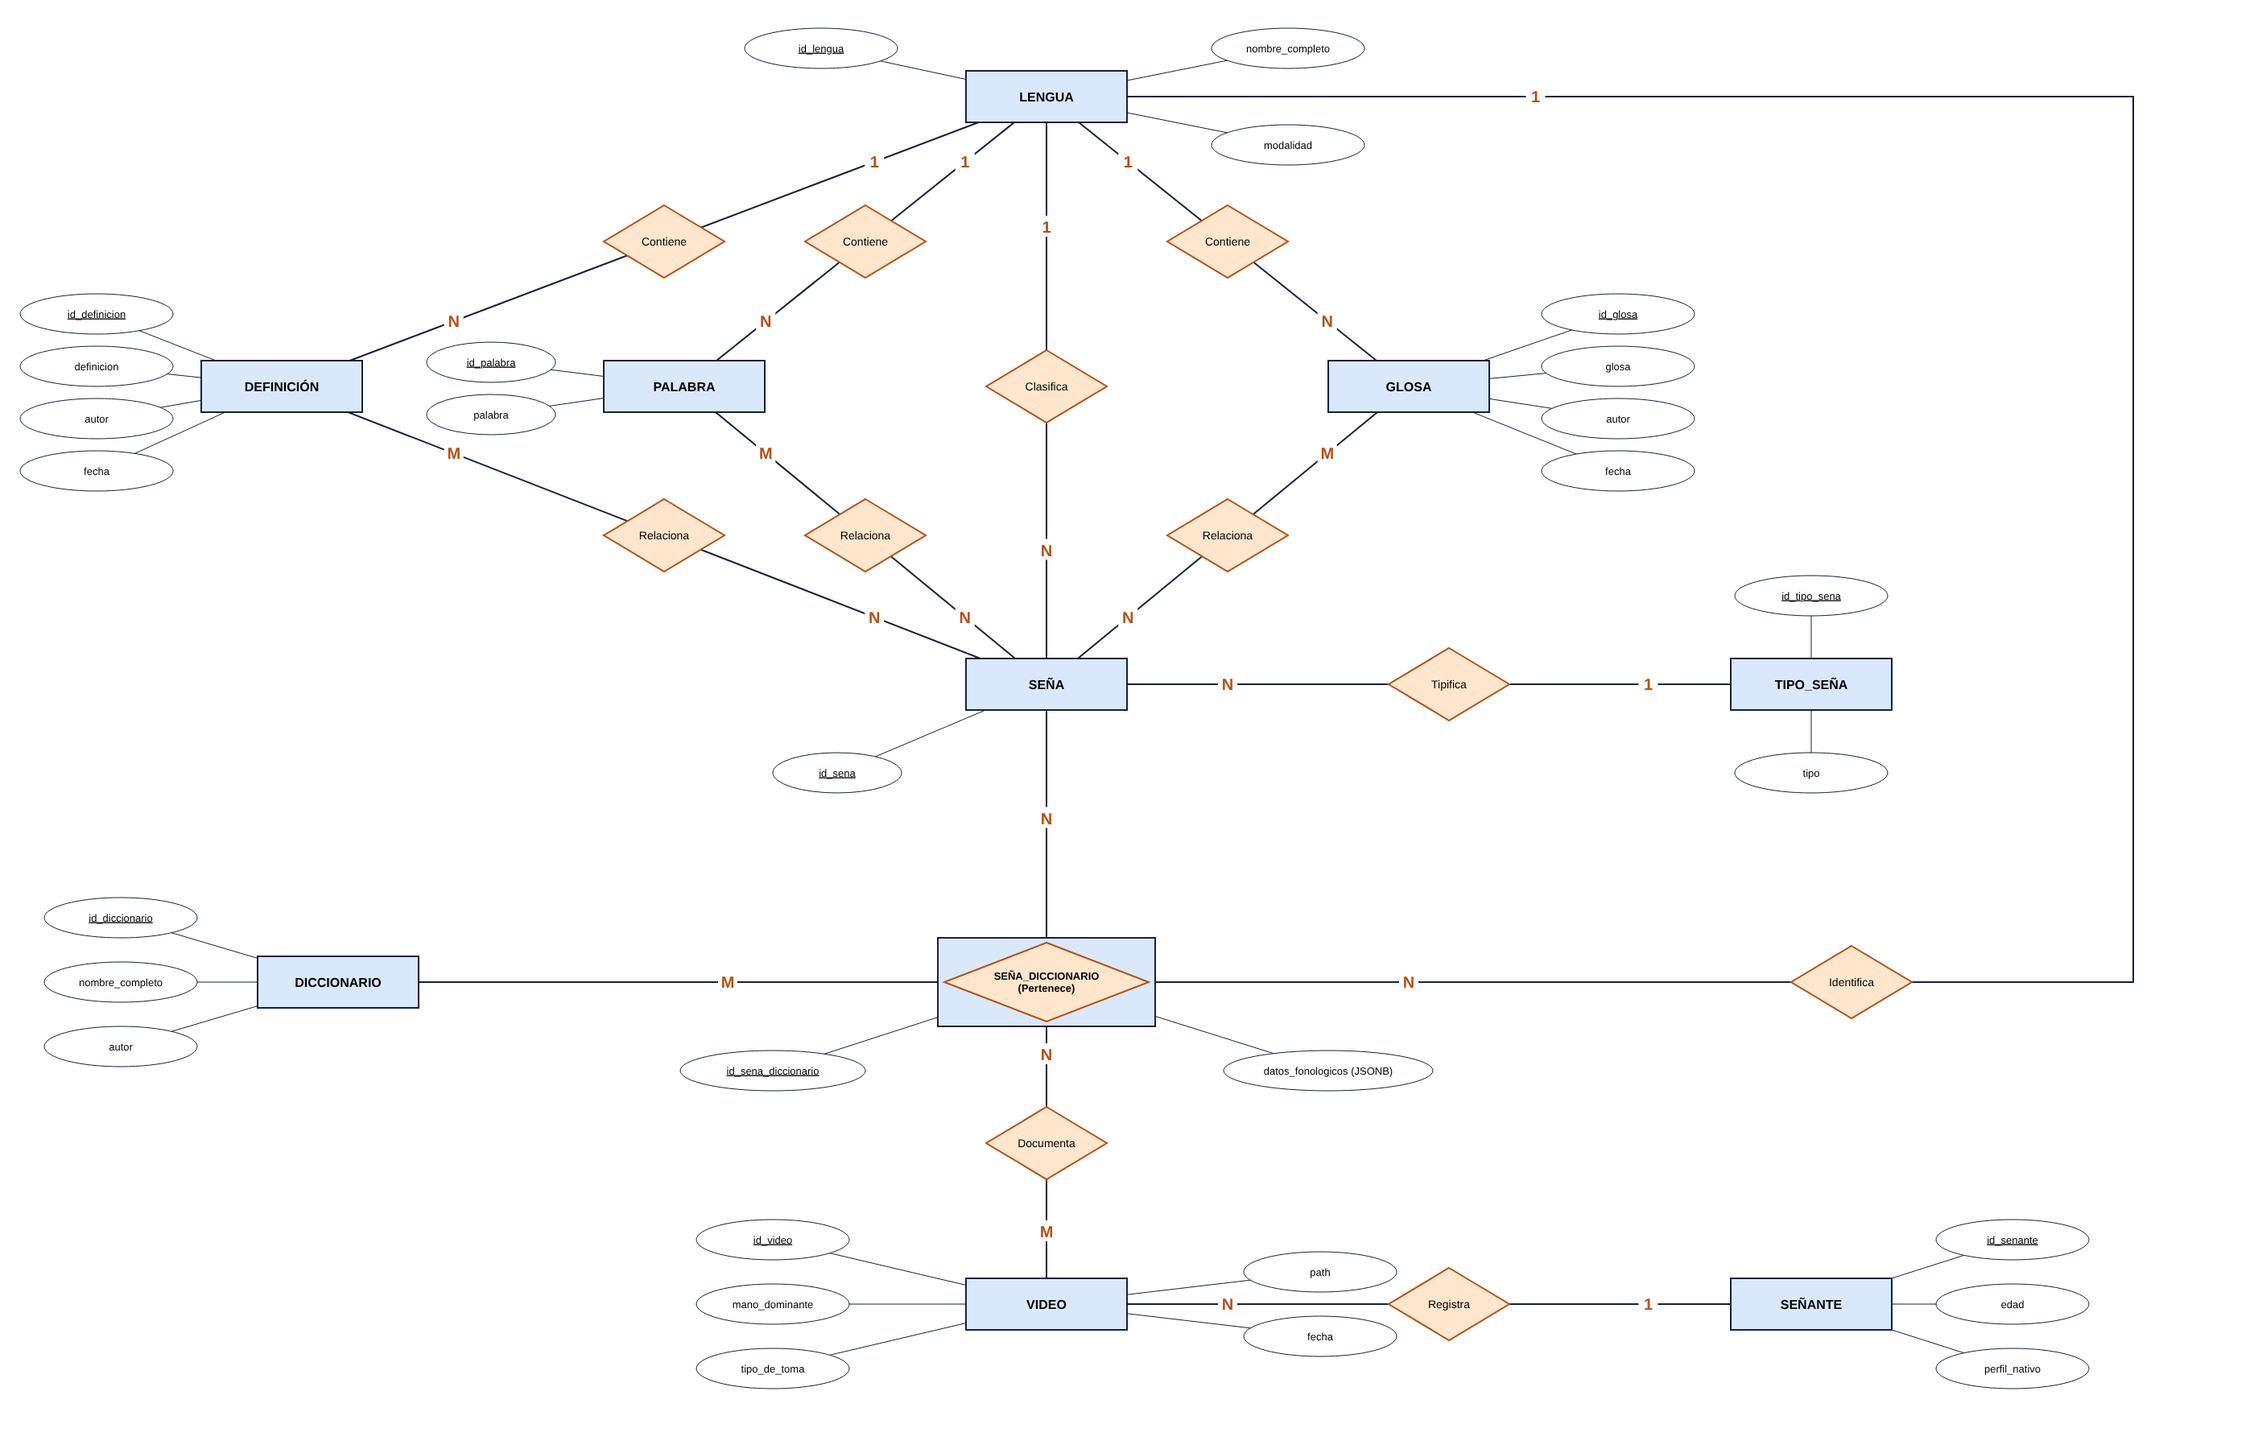
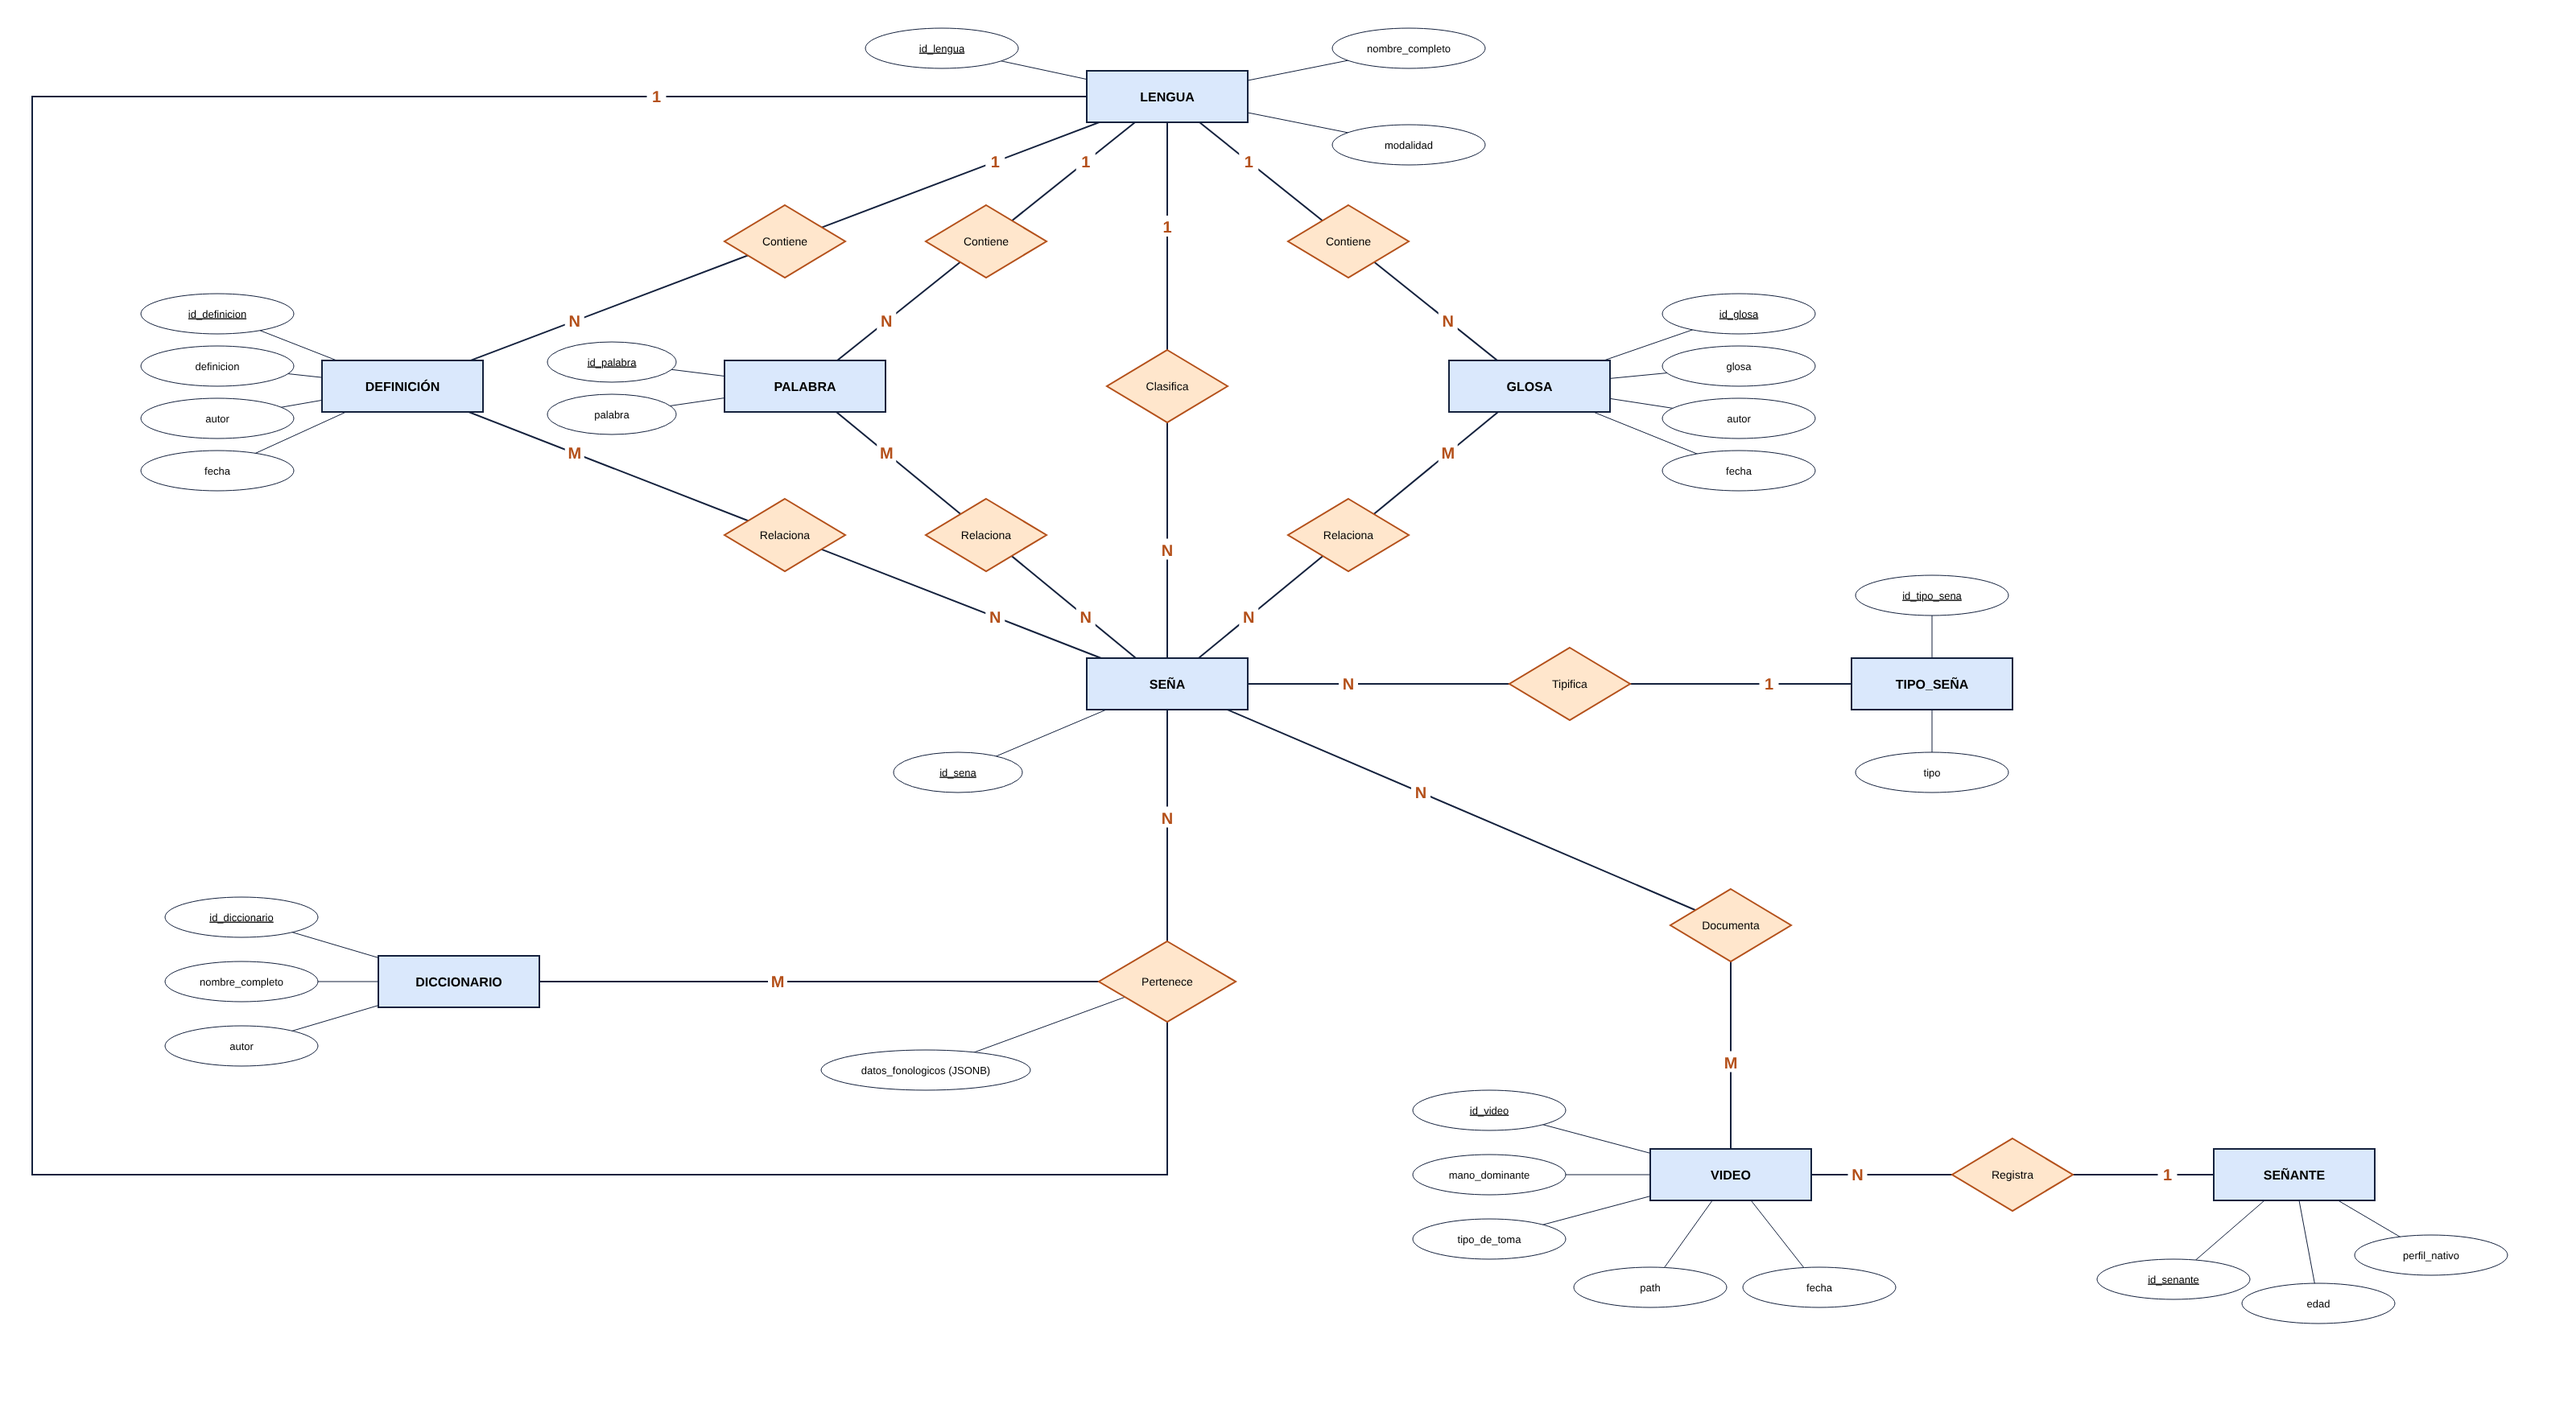
Manual de respaldo y mudanza; diagrama Chen sin tablas de cruce
Claude-Session: https://claude.ai/code/session_01RXhn55dbyqXR8nxkYV3Q8d

diff --git a/docs/MANUAL_RESPALDO.md b/docs/MANUAL_RESPALDO.md
@@ -1,0 +1,106 @@
+# Manual: respaldo, rollback y mudanza de la base de datos
+
+Base: `lsm_db` · Usuario: `postgres` · PostgreSQL 18 en Windows.
+Cada operación tiene dos opciones: **1. CMD** (directo en PostgreSQL) y **2. DBeaver** (interfaz visual).
+
+---
+
+## 1. Respaldo (backup)
+
+Genera un solo archivo `.backup` con toda la base (tablas, datos, funciones).
+
+### Opción 1 · CMD
+
+```bash
+cd "C:\Program Files\PostgreSQL\18\bin"
+```
+
+```bash
+pg_dump -U postgres -h localhost -p 5432 -F c -f "C:\respaldos\lsm_db.backup" lsm_db
+```
+
+Pide la contraseña de `postgres`. La carpeta `C:\respaldos` debe existir.
+
+### Opción 2 · DBeaver
+
+1. Clic derecho en la base `lsm_db` › **Tools** › **Backup**.
+2. Marca el esquema `lsm` › **Next**.
+3. **Format:** Custom. **Output folder:** `C:\respaldos`. **File name pattern:** `lsm_db`.
+4. **Start**.
+
+> Si DBeaver pide un *Local client*, elige `C:\Program Files\PostgreSQL\18\bin`.
+
+---
+
+## 2. Mudanza a otra máquina (restaurar)
+
+**Requisitos en la otra máquina:** PostgreSQL 18 (o mayor) instalado y el archivo `lsm_db.backup` copiado (USB, nube, etc.).
+
+### Opción 1 · CMD
+
+```bash
+cd "C:\Program Files\PostgreSQL\18\bin"
+```
+
+```bash
+createdb -U postgres -h localhost -p 5432 lsm_db
+```
+
+```bash
+pg_restore -U postgres -h localhost -p 5432 -d lsm_db "C:\respaldos\lsm_db.backup"
+```
+
+### Opción 2 · DBeaver
+
+1. Crea la conexión a PostgreSQL de la otra máquina (`localhost`, puerto `5432`, usuario `postgres`).
+2. Clic derecho en **Databases** › **Create New Database** › nombre `lsm_db` › **OK**.
+3. Clic derecho en `lsm_db` › **Tools** › **Restore**.
+4. **Format:** Custom. **Backup file:** `lsm_db.backup`.
+5. **Start**.
+
+### Verificar
+
+En un editor SQL conectado a `lsm_db`:
+
+```sql
+SELECT count(*) FROM lsm.sena_diccionario;   -- debe dar 1006
+```
+
+---
+
+## 3. Rollback (deshacer cambios)
+
+Deshace cambios **antes** de confirmarlos. Un cambio ya confirmado (COMMIT o auto-commit) no se deshace: para eso está el respaldo.
+
+### Opción 1 · CMD (psql)
+
+```bash
+psql -U postgres -d lsm_db
+```
+
+```sql
+BEGIN;
+-- cambios (INSERT, UPDATE, DELETE...)
+ROLLBACK;   -- deshace todo desde BEGIN
+-- o COMMIT; para guardarlos
+```
+
+Para deshacer solo una parte: `SAVEPOINT punto1;` … `ROLLBACK TO punto1;`
+
+### Opción 2 · DBeaver
+
+1. En la barra superior, cambia **Auto-Commit** a **Manual Commit**.
+2. Ejecuta los cambios.
+3. Botón **Rollback** para deshacer, o **Commit** para guardar.
+4. Al terminar, regresa a **Auto-Commit**.
+
+---
+
+## Errores comunes
+
+| Error | Solución |
+|---|---|
+| `Connection refused` | El servicio está apagado: `services.msc` › `postgresql-x64-18` › Iniciar |
+| `database "lsm_db" already exists` | Usa otro nombre o borra la base vacía antes de restaurar |
+| `pg_restore: unsupported version` | La máquina destino tiene PostgreSQL más antiguo: instala la 18 |
+| `password authentication failed` | Contraseña de `postgres` incorrecta en esa máquina |

diff --git a/README.md b/README.md
@@ -35,6 +35,8 @@ Diccionario de Lengua de Señas Mexicana de la Ciudad de México (2017).
 | `docs/EJERCICIOS_ANOTACION_MANUAL.md` | Ejercicios para resolver consultas a mano, con soluciones |
 | `docs/BITACORA.md` | Registro de discusiones y decisiones abiertas (mesa redonda pendiente) |
 | `docs/img/diagrama_er.png` | Diagrama entidad-relación actualizado |
+| `docs/img/diagrama_er_chen.drawio` | Diagrama ER en notación Chen (draw.io), sin tablas de cruce |
+| `docs/MANUAL_RESPALDO.md` | Respaldo, rollback y mudanza de la base: por CMD o por DBeaver |
 | `metadatos/generar_metadatos.sql` | Genera METADATOS (JSON aparte, fuera de la base) a partir de `datos_fonologicos`. Solo SELECT |
 | `metadatos/esquema_metadatos.txt` | Esquema de METADATOS: claves, obligatorias/opcionales, listas cerradas y ejemplos |
 | `metadatos/esquema_metadatos.sql` | El mismo esquema en notación SQL (tipos y dominios; se deshace con ROLLBACK) |
